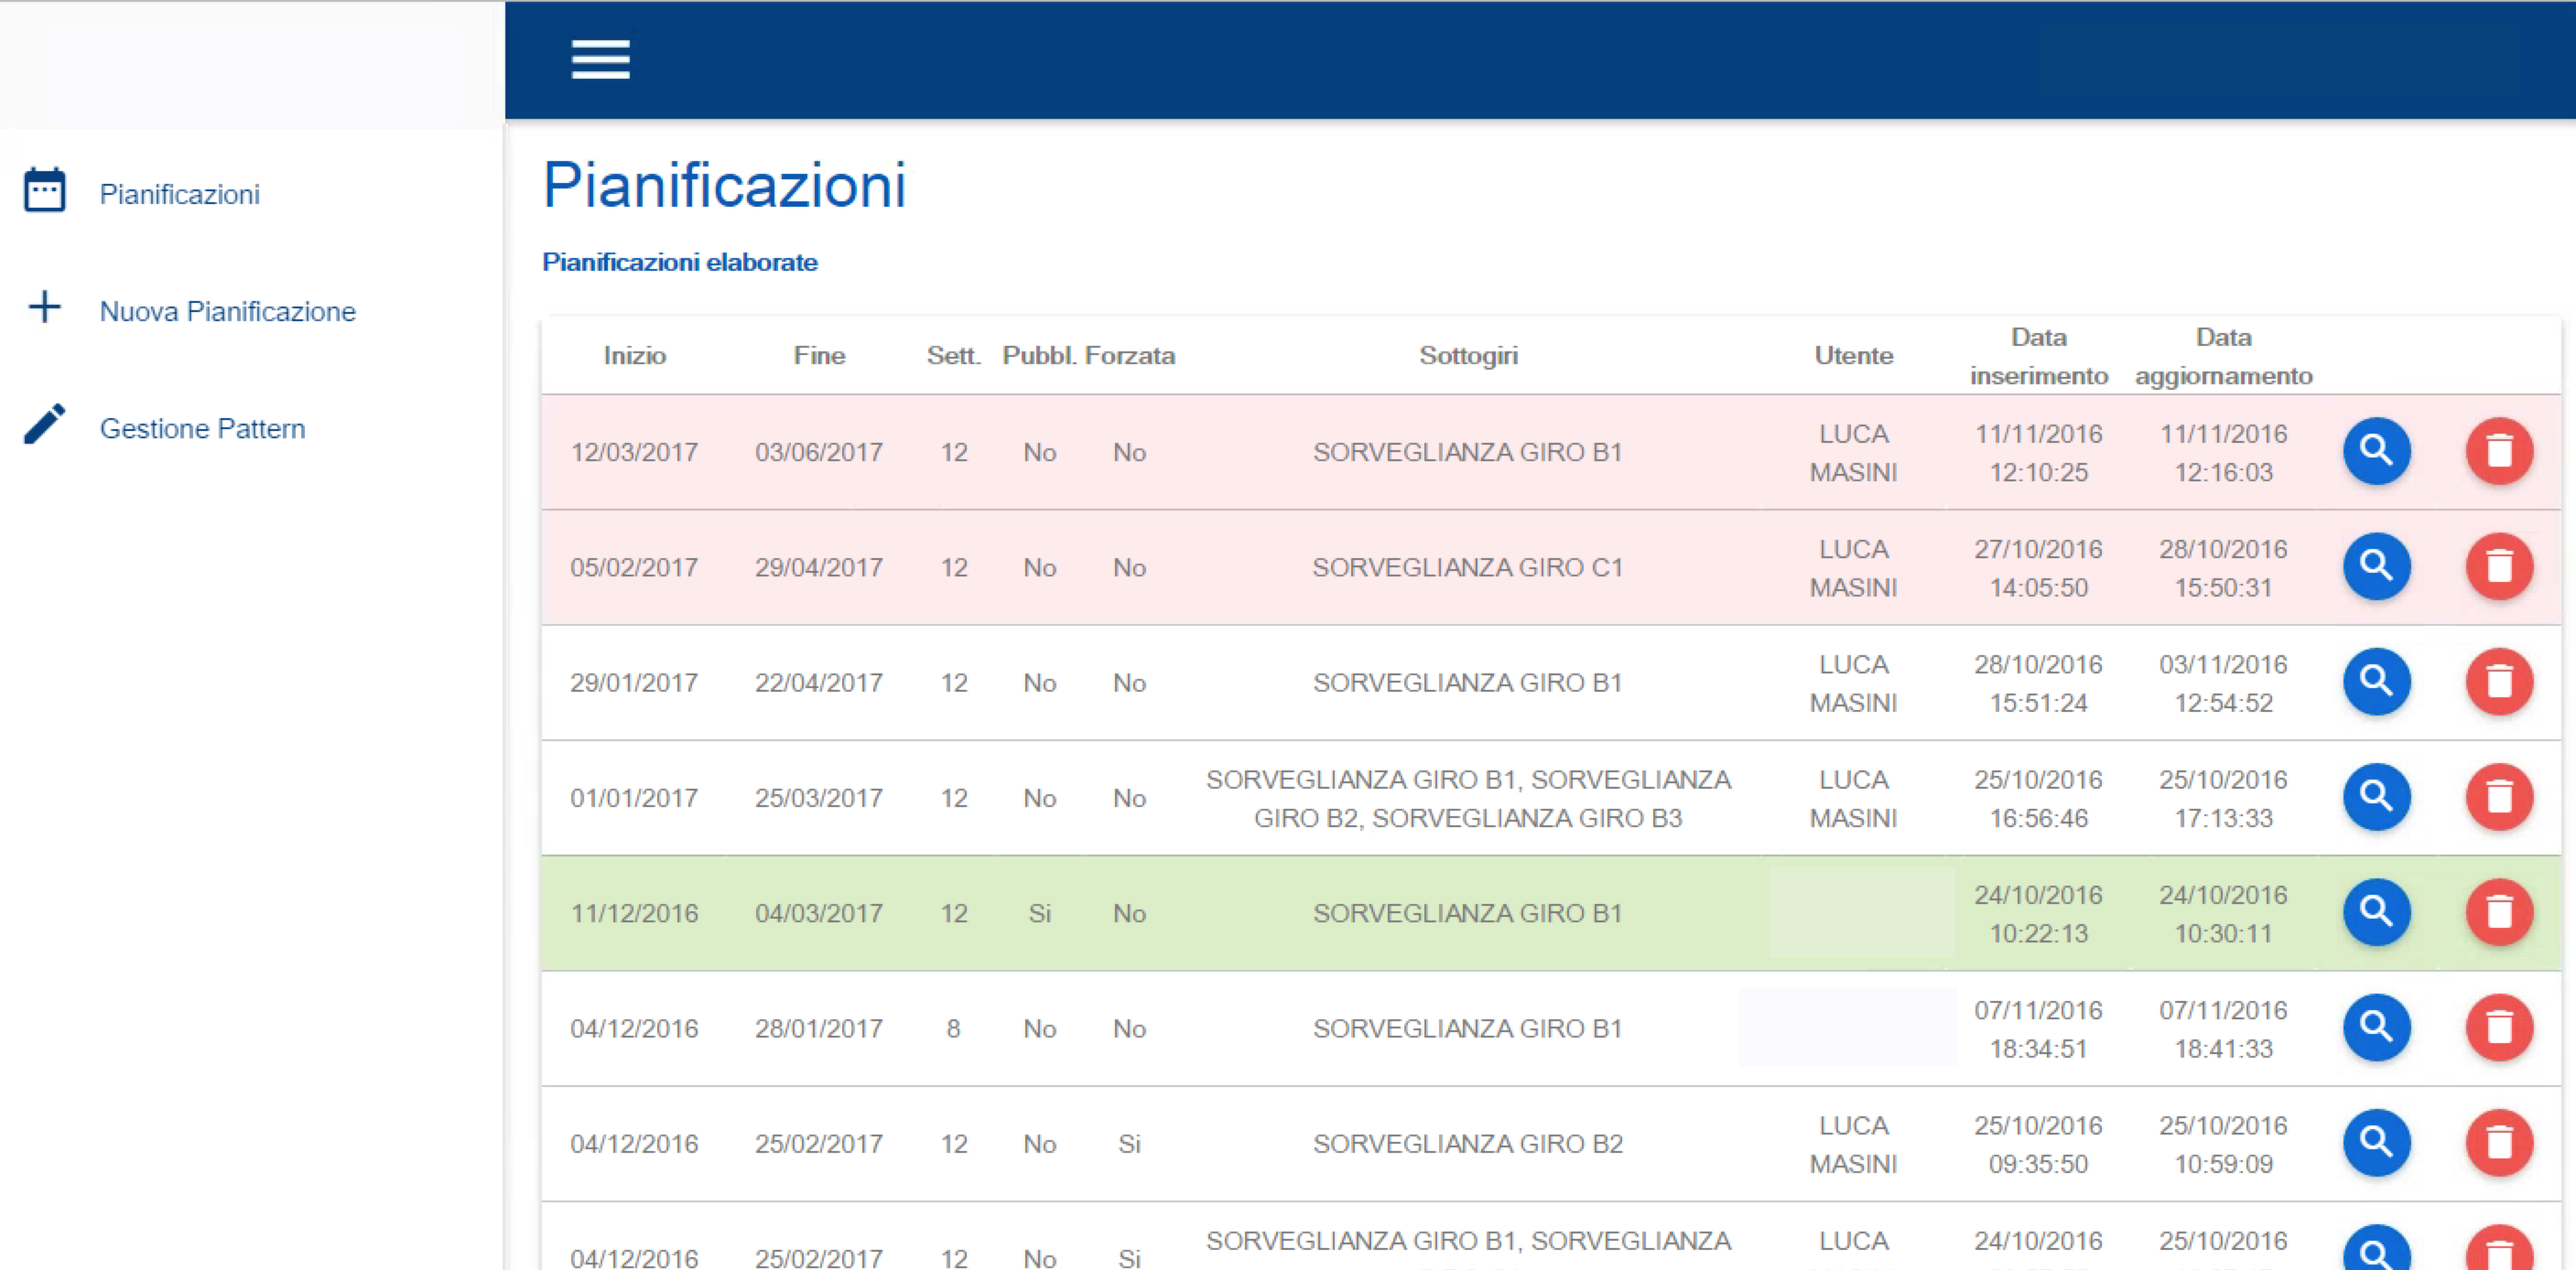
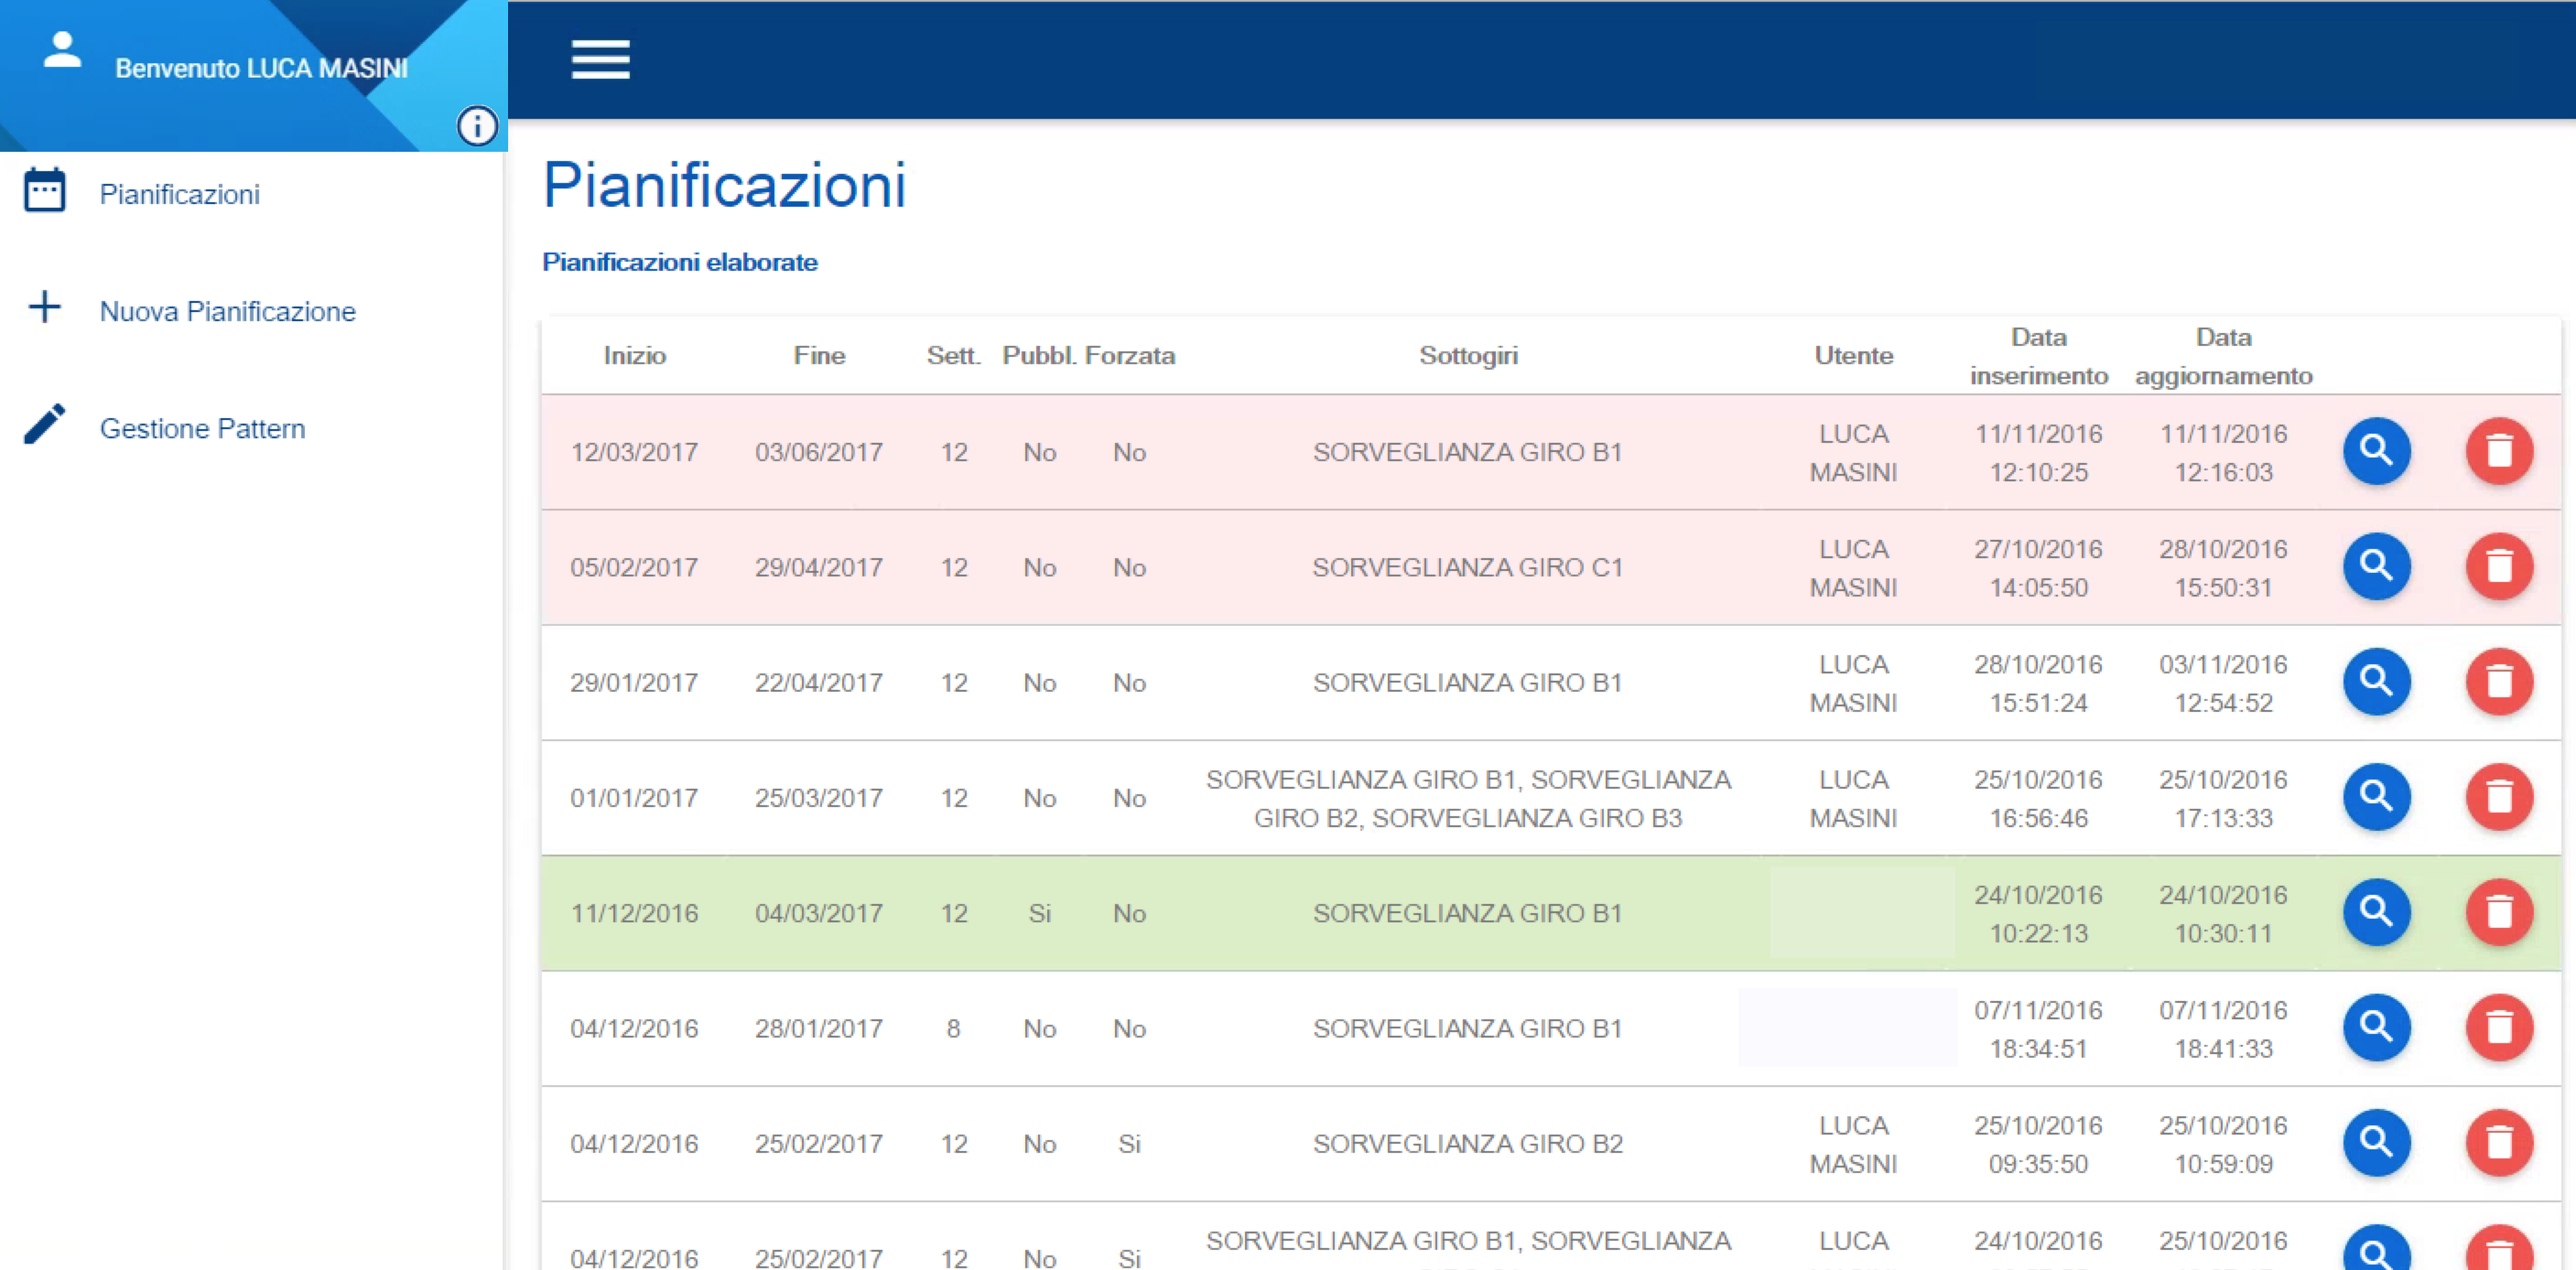
Aggiunte speaker notes

Changed region(s): [[0.0, 0.0, 0.2164, 0.1239]]

diff --git a/slides/target.md b/slides/target.md
@@ -9,8 +9,11 @@ This was done gluing together some carefully chosen available frameworks. <!-- .
 
 Note:
 
-Come detto gli obiettivi di questo "metaframework" sono:
+As I said, we identified these objectives for our metaframework:
 
-Un layout coerente e completo di tutti gli elementi necessari /
-Integrazione automatica con i sistemi di backend e in particolare con i dati di provisioning dell'utente e di bootstrap dell'applicazione /
-Un modo semplice e alternativo a gwt-rpc per comunicare con servizi REST applicativi o messi a disposizione da terzi
+A coherent layout, complete of all the necessary elements, I will say more about this later //
+Automatic integration with backend subsystem, in particular user provisioning and bootstrap application data //
+A simple alternative to gwt-rpc to call REST end-point
+Plain old GWT Widgets that let the developer write the user interface without worrying too much about what HTML will be generated, but assuring us that the layout and style will be preserved
+
+To do this we selected some frameworks available in the open source GWT space and we integrated them for the end-user developer

diff --git a/slides/motivazioni.md b/slides/motivazioni.md
@@ -7,10 +7,10 @@ We need
 
 Note:
 
-La nostra scelta di GWT è iniziata ormai 10 anni fa e fin dall'inizio abbiamo pensato che per un uso 
-veramente "enterprise" fossero necessari alcuni strumenti che all'epoca non facevano parte del toolkit standard
-Tra questi furono individuati un layoyt standard per tutte le applicazioni, un modello di sviluppo semplificato e 
-un archetipo per abbassare al massimo il tempo di startup di un nuovo progetto.
+We started using GWT 10 years ago and from the beginning we thought that for a real enterprise
+use would be necessary tools not avaiable in the standard toolkit at that time.
+Among this we identified a standard layout for all our internal applications, a simplified development
+model and an archetype to start project coherently and in few minutes
 
-Dal 2006 sono passati 10 anni e ancora questi sono ingredienti che non fanno parte nel del toolkit standard
-ne a 360 gradi di alcun framework disponibile 
+Since then 10 years have passed and yet these ingredients are not part of the standard toolkit
+nor any framework available on the open source landscape

diff --git a/slides/gwt-2-8.md b/slides/gwt-2-8.md
@@ -6,3 +6,18 @@
     * More memory usage (+80%) <!-- .element: class="fragment" -->
     * Variables name now are even more cryptically and still no support from Source Maps <!-- .element: class="fragment" --> 
 
+Note: 
+
+Having worked now a lot with GWT 2.8 now we can say that having the same Java version client/server is again a plus, we
+had to survive a lot with Java 8 server-side and Java 6/7 on the client.
+
+We don't use lambda a lot because thanks to UI Binder events are managed by instance methods.
+
+We also have an opinion of what must be improved:
+
+* We measured higher compile time in the same application upgrading from 2.7 to 2.8
+* We also measured higher memory usage
+* Super Dev Mode is cool but debugging is difficult, most of this come from the local variables which are not included in Source Maps
+  GWT 2.8 put also the package and class name inside the variable name, along with dollars, underscore and numbers, 
+  finding the correct variable to inspect is not easy 
+

diff --git a/slides/angularjs.md b/slides/angularjs.md
@@ -19,3 +19,15 @@ public class CataloguePage extends AbstractRicercaView<Catalogue> {
     // My Business code
 ``` 
 <!-- .element: class="fragment" data-fragment-index="1" -->
+
+Note:
+
+But after 10 years why we decided to remain on GWT with all these cool framework available ?
+
+The answer is in this snippet of code, where I have comndensed some key concept:
+
+* The first annotation is used by our APT generator to create the correct layout and to integrate into the security system
+* The second is an Erray Navigation annotation, used to include this widget in the generation of classes needed for the navigation subsystem
+* Then we have plain old good UI Binder, in that type-safe XML we declare GWT-Material widgets
+* Finally that to Errai CDI we inject an Errai JAX-RS automatically generated proxy to a REST endpoint
+

diff --git a/slides/scelte-tecnologiche.md b/slides/scelte-tecnologiche.md
@@ -3,3 +3,19 @@
 * GWT 2.8 (of course)
 * GWT Material 1.6 (soon 2.0)
 * Errai Framework 4
+
+
+Note: 
+
+Going back to our technological choice for the new version of our framework (version 4), we opted out for GWT 2.8, starting with the beta version passing 
+among release candidates and now we have a final version.
+
+We used version 1.6 of gwt-material, still version 2.0 is not production ready
+
+Errai 4 Beta was used from the beginning, continuing the road of the previous versions of productive which started from Errai 2.
+
+We decided for two non final products (GWT now final and Errai) because we didn't want to deliver something with yet a 
+technical debt.
+
+
+

diff --git a/slides/material-design.md b/slides/material-design.md
@@ -3,3 +3,15 @@
 <img src="resources/turni.png"/>
 
 <!--img width="50%" src="resources/ticcru.png"/-->
+
+Note:
+
+Here is an example of our layout, done with Material Design in mind.
+
+You can notice the menu on the right, which can be opened/closed using the burger icon in the top-left corner of the header bar.
+
+You can show the current logged user or if you prefer the company logo, there also a information icon that will be discussed later on
+
+The header bar can include a search bar and the application title
+
+Finally the content panel, which in this example include a GWT DataGrid that uses GWT-Material styles.

diff --git a/slides/angularjs-2.md b/slides/angularjs-2.md
@@ -1,5 +1,14 @@
-##  AngularJS 1.x
+##  AngularJS (v1)
 ```HTML
 https://www.thoughtworks.com/radar/languages-and-frameworks
 ```
 <img src="resources/angular.png"/>
+
+Note:
+
+We tried to use AngularJS in a simple application to understand better if can be a good enterprise candidate.
+
+The response was that it isn't, the developer must write a lot of XXX-Script to make what we did in the Java code showed before.
+HTML5/CSS3 must be written for the user interface (and automatic two-way databinding is a cool feature).
+
+Not a good candidate for enterprise applications.

diff --git a/slides/reactjs.md b/slides/reactjs.md
@@ -19,3 +19,13 @@ class App extends React.Component {
 ```
 But Flux is very interesting !!!<!-- .element: class="fragment" data-fragment-index="1" -->
 
+Note:
+Well, ReactJS not is the coolest framework but a lot has been written about JSP and ASP because they mix HTML tags with
+Java/JavaScript/C# code and now what ??
+
+A framework that let us mix HTML and JavaScript.
+
+Seriously ?
+
+But I recommend you to have a look at their design pattern, Flux, is very interesting. 
+

diff --git a/slides/material-design-3.md b/slides/material-design-3.md
@@ -1,3 +1,10 @@
 ###  Material Design
 
 <img width="300" src="resources/infowindow.png"/>
+
+Note:
+
+Finally the information panel, showed when the i icon is clicked, with all the diagnostic information needed when the 
+user call the help desk. 
+
+Username, roles for the user, server cluster, application version, all necessary for a correct diagnostic.

diff --git a/slides/material-design-2.md b/slides/material-design-2.md
@@ -1,3 +1,12 @@
 ###  Material Design
 
 <img src="resources/ticcru.png"/>
+
+Note:
+
+Here we can note icons in the generated menu, and among other widgets in the content panel a collapsible, 
+very useful if you want to include some controls.
+ 
+Here we have material buttons and material list box
+  
+Below two datagrids that show the results
